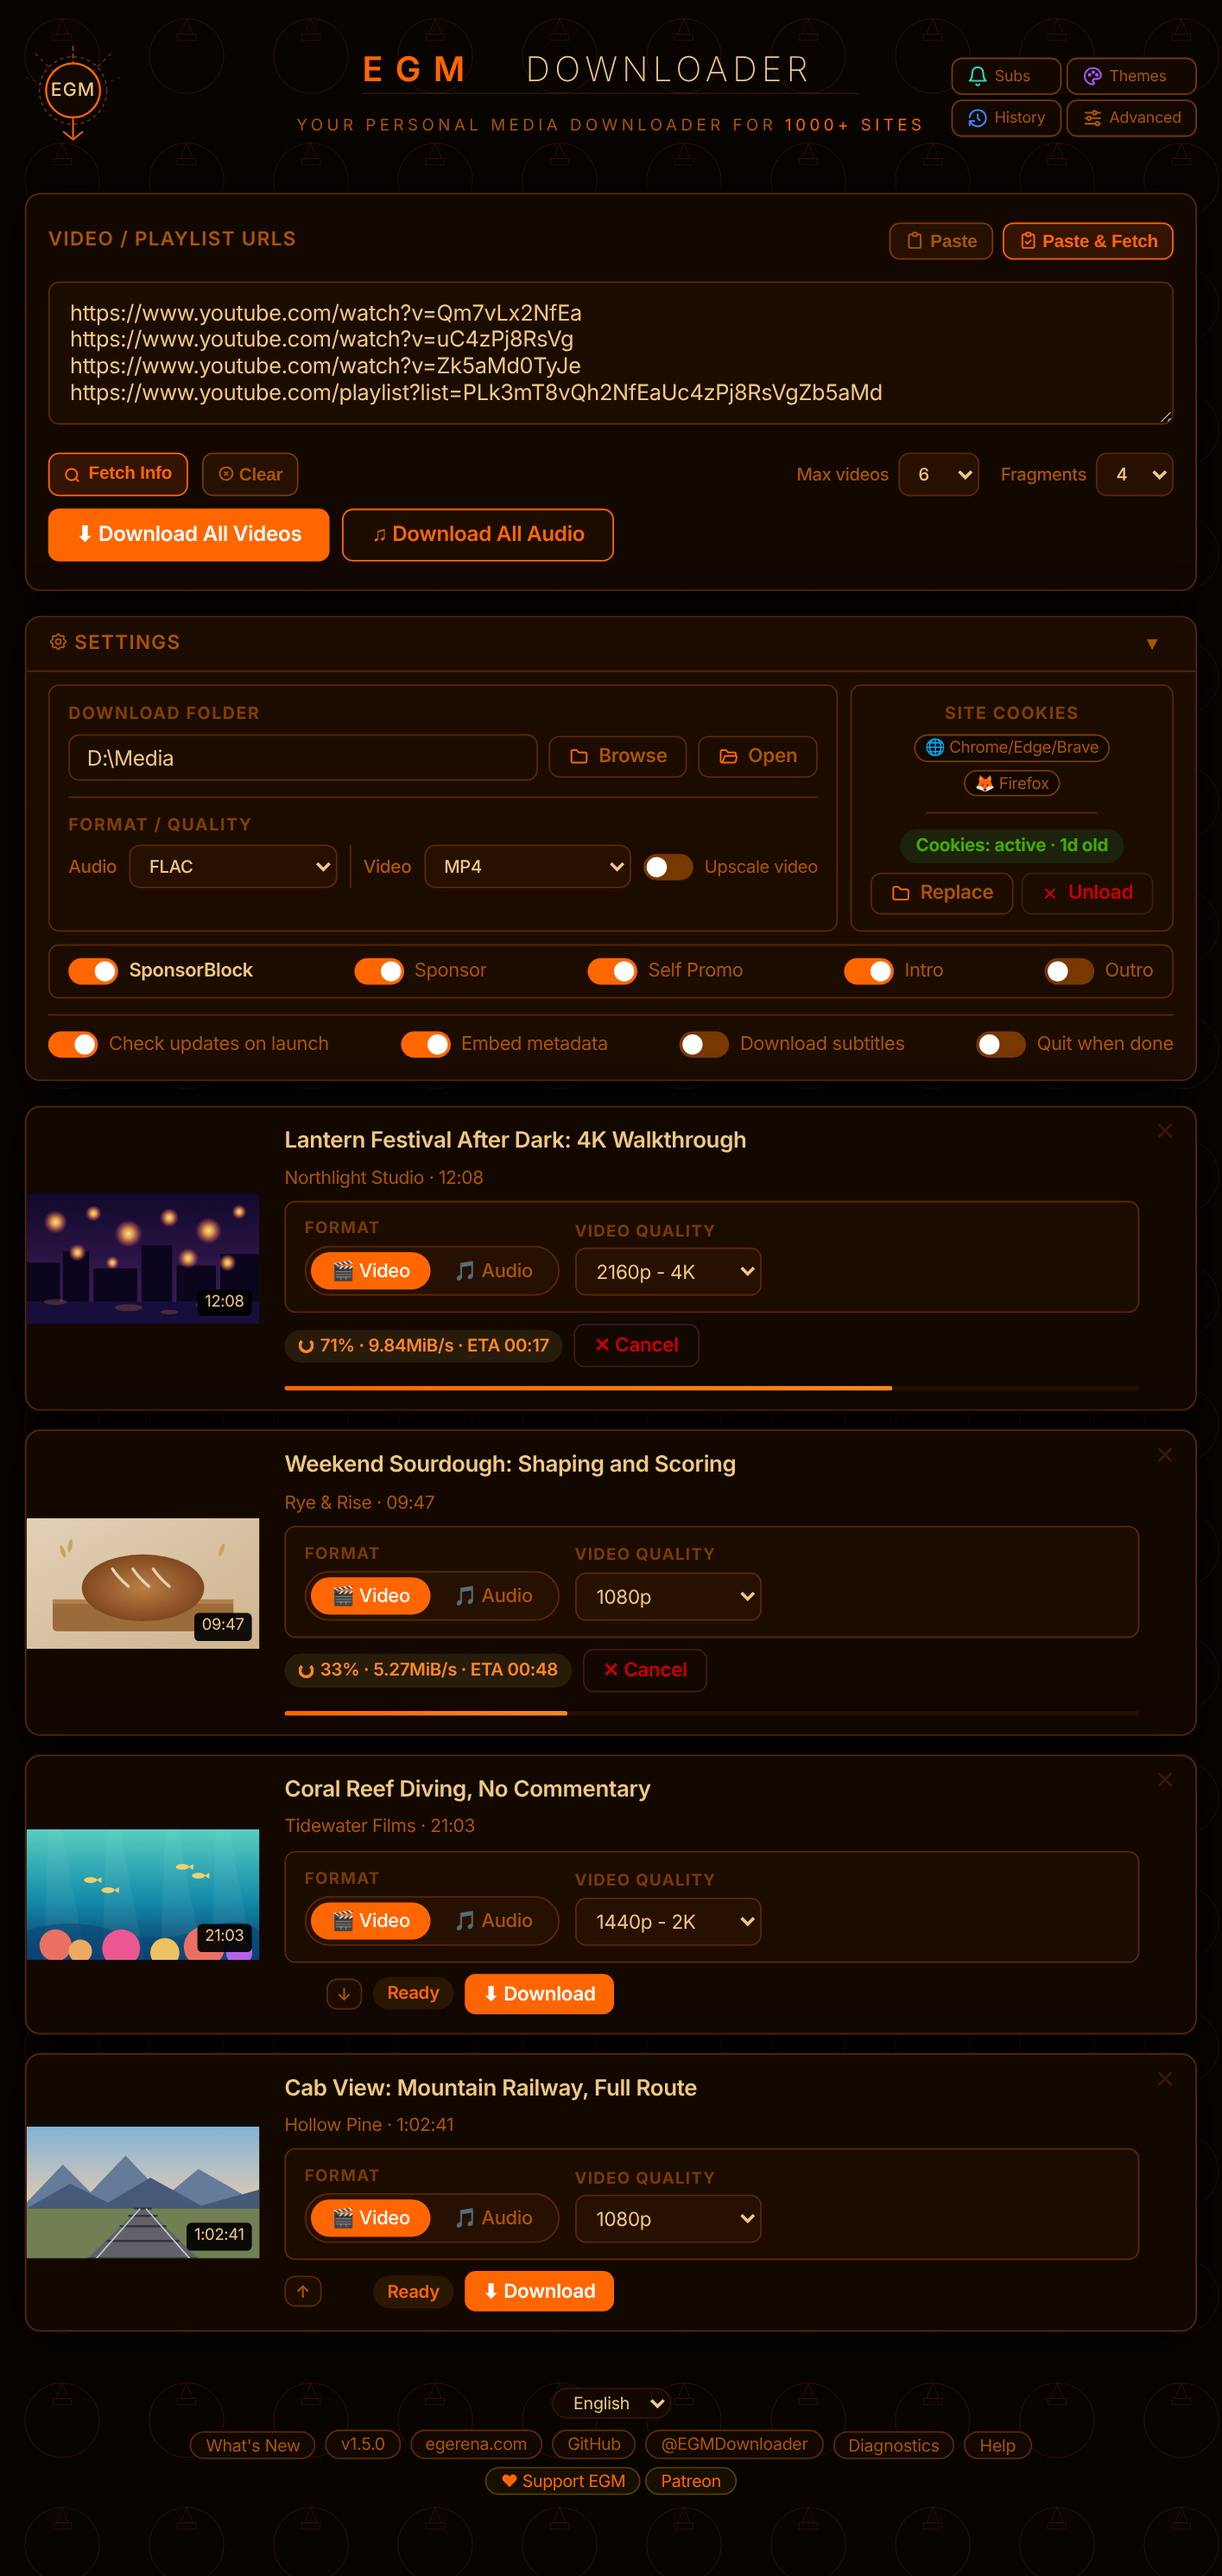
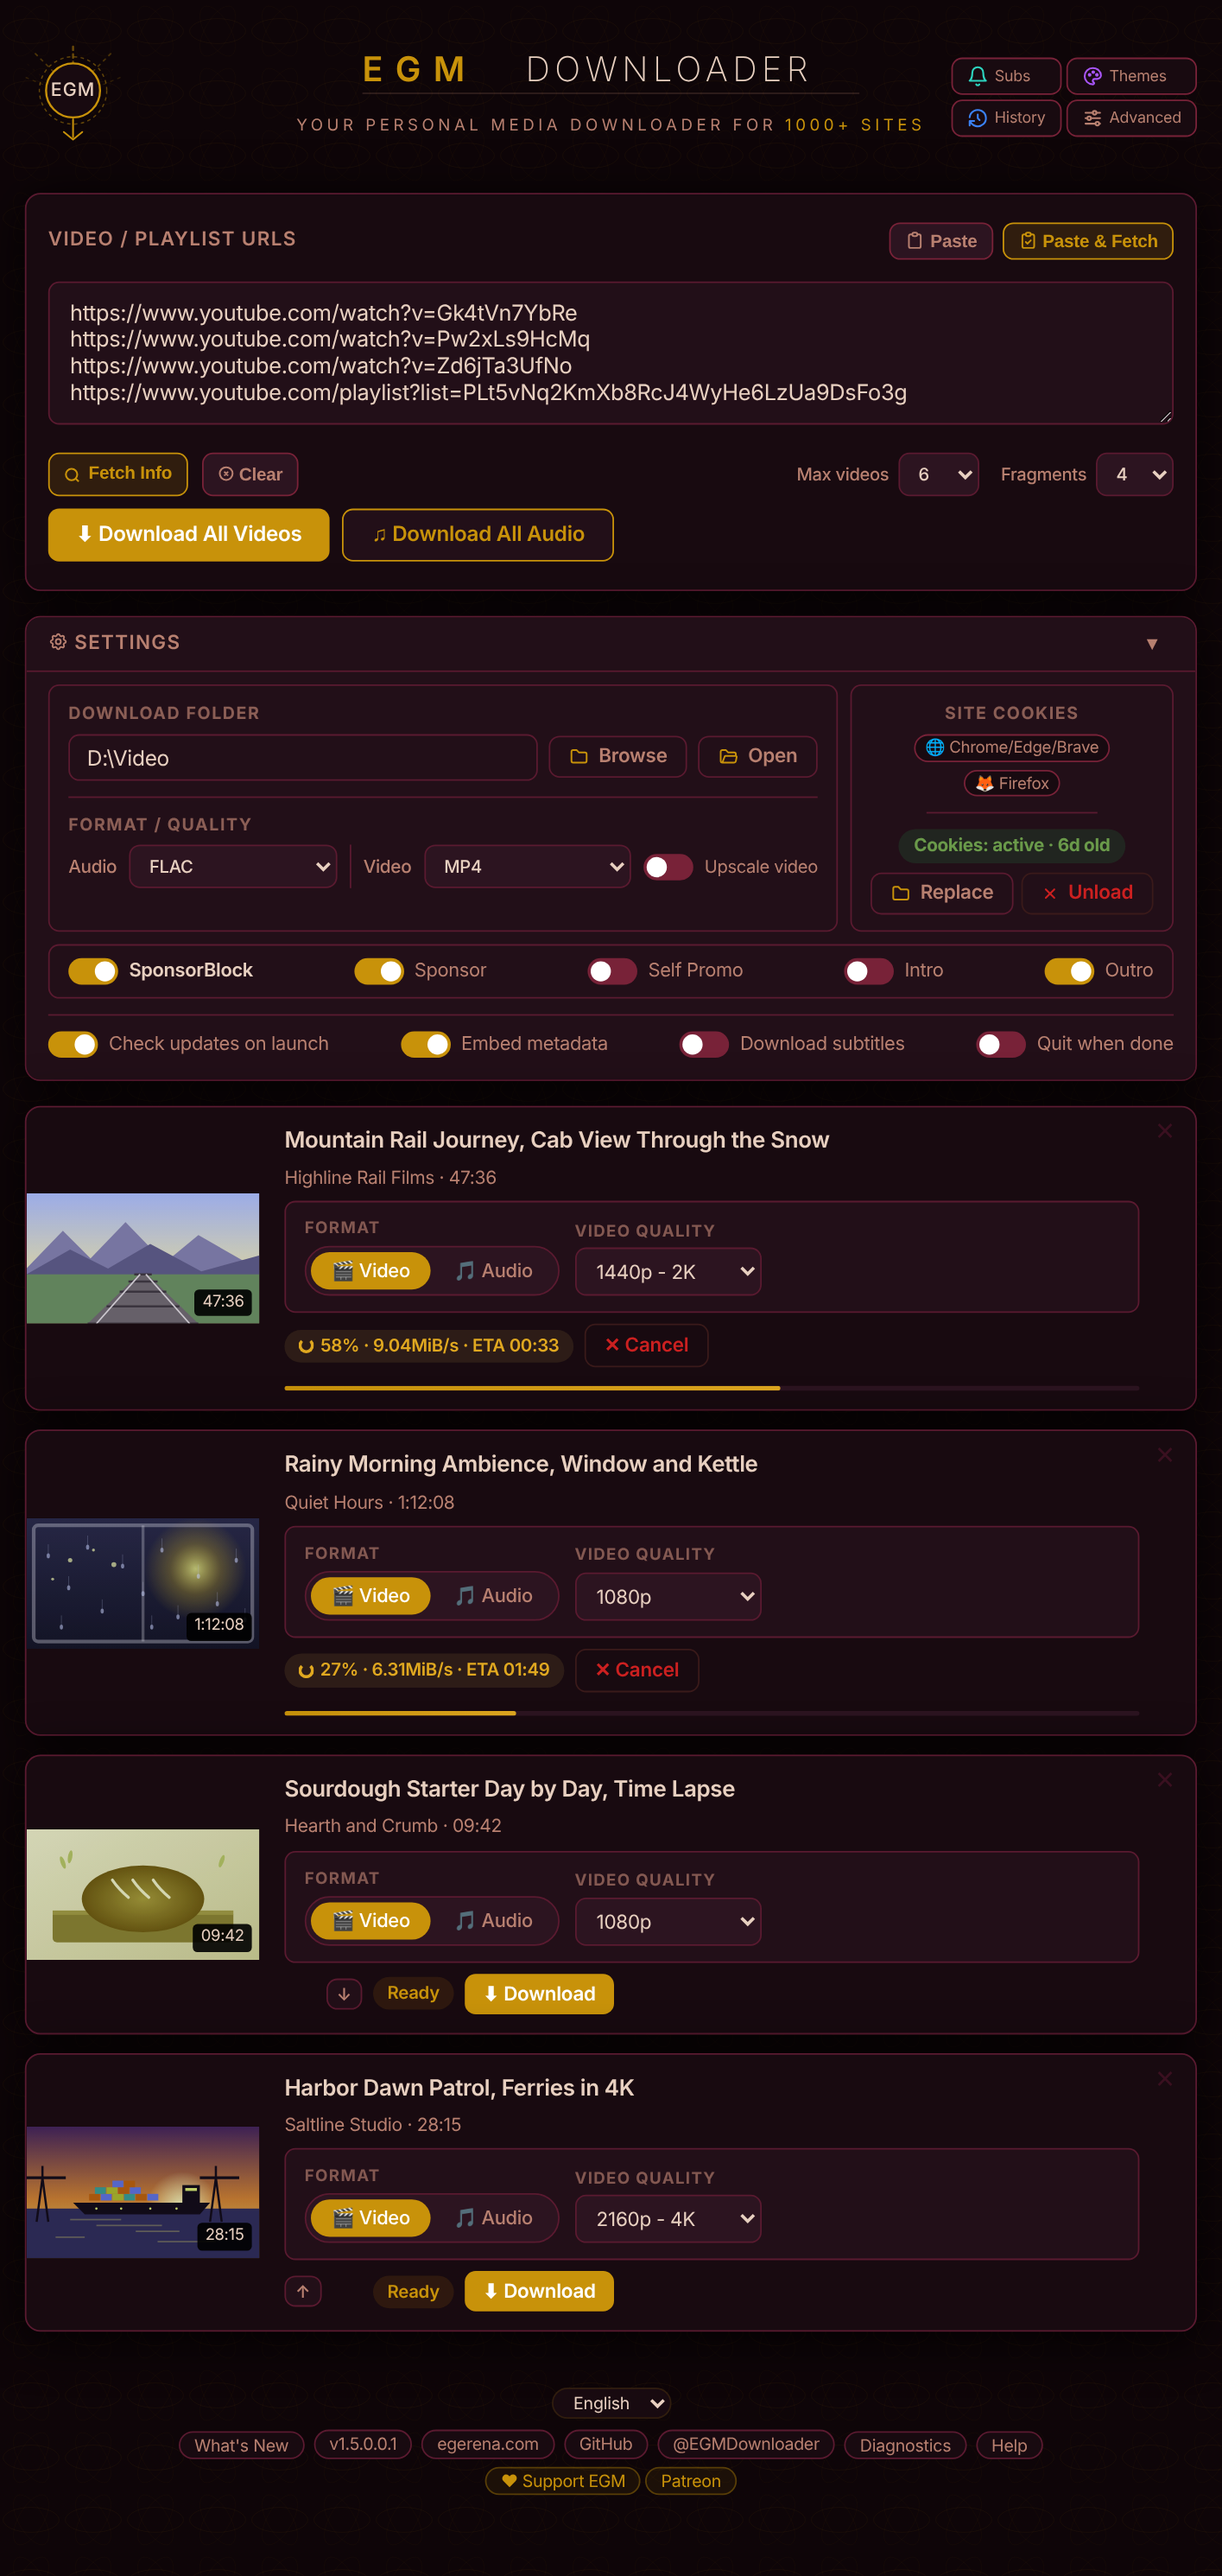
release: v1.5.0.0.1 Build 170 — THE ONE ABOUT BROTLI, SHA256s, screenshots, CONTRIBUTING

diff --git a/README.md b/README.md
@@ -85,7 +85,7 @@ A side by side look at one well known alternative, using details you can check y
 
 ## 🖼 Screenshots
 
-> 📸 *Screenshots of v1.5.0, RAW FEED. The UI is identical across Windows, macOS, and Linux.*
+> 📸 *Screenshots of v1.5.0.0.1, THE ONE ABOUT BROTLI. The UI is identical across Windows, macOS, and Linux.*
 
 <table>
   <tr>
@@ -94,11 +94,11 @@ A side by side look at one well known alternative, using details you can check y
       <br/><sub><b>Splash Screen</b></sub>
     </td>
     <td align="center" width="33%">
-      <a href="screenshots/02-main-ui.png"><img src="screenshots/02-main-ui.png" width="260" alt="Main UI, Halloween theme"/></a>
+      <a href="screenshots/02-main-ui.png"><img src="screenshots/02-main-ui.png" width="260" alt="Main UI, Jazz Club theme"/></a>
       <br/><sub><b>Main UI</b> (Halloween theme)</sub>
     </td>
     <td align="center" width="33%">
-      <a href="screenshots/03-advanced-panel.png"><img src="screenshots/03-advanced-panel.png" width="260" alt="Advanced Panel, Ubuntu theme"/></a>
+      <a href="screenshots/03-advanced-panel.png"><img src="screenshots/03-advanced-panel.png" width="260" alt="Advanced Panel, Blueprint theme"/></a>
       <br/><sub><b>Advanced Panel</b> (Ubuntu theme)</sub>
     </td>
   </tr>
@@ -107,11 +107,11 @@ A side by side look at one well known alternative, using details you can check y
 <table>
   <tr>
     <td align="center" width="50%">
-      <a href="screenshots/08-live-streams.png"><img src="screenshots/08-live-streams.png" width="271" alt="Live streams recording and a download running, Abyssal theme"/></a>
+      <a href="screenshots/08-live-streams.png"><img src="screenshots/08-live-streams.png" width="271" alt="Live streams recording and a download running, Northern Lights theme"/></a>
       <br/><sub><b>Live Streams</b> (Abyssal theme)</sub>
     </td>
     <td align="center" width="50%">
-      <a href="screenshots/09-live-reconnecting.png"><img src="screenshots/09-live-reconnecting.png" width="371" alt="A live stream reconnecting, Cobalt Rush theme"/></a>
+      <a href="screenshots/09-live-reconnecting.png"><img src="screenshots/09-live-reconnecting.png" width="371" alt="A live stream reconnecting, Holographic theme"/></a>
       <br/><sub><b>Live Stream Reconnecting</b> (Cobalt Rush theme)</sub>
     </td>
   </tr>
@@ -120,11 +120,11 @@ A side by side look at one well known alternative, using details you can check y
 <table>
   <tr>
     <td align="center" width="50%">
-      <a href="screenshots/10-quit-when-done.png"><img src="screenshots/10-quit-when-done.png" width="308" alt="Quit when done countdown, Mint theme"/></a>
+      <a href="screenshots/10-quit-when-done.png"><img src="screenshots/10-quit-when-done.png" width="308" alt="Quit when done countdown, Polaroid theme"/></a>
       <br/><sub><b>Quit When Done</b> (Mint theme)</sub>
     </td>
     <td align="center" width="50%">
-      <a href="screenshots/06-advanced-plugins.png"><img src="screenshots/06-advanced-plugins.png" width="308" alt="Advanced Panel with the plugins list, Arch Linux theme"/></a>
+      <a href="screenshots/06-advanced-plugins.png"><img src="screenshots/06-advanced-plugins.png" width="308" alt="Advanced Panel with the plugins list, Lilac Mist theme"/></a>
       <br/><sub><b>Advanced Panel, Plugins</b> (Arch Linux theme)</sub>
     </td>
   </tr>
@@ -133,11 +133,11 @@ A side by side look at one well known alternative, using details you can check y
 <table>
   <tr>
     <td align="center" width="50%">
-      <a href="screenshots/04-all-themes.png"><img src="screenshots/04-all-themes.png" width="459" alt="All Themes, Dialup theme"/></a>
+      <a href="screenshots/04-all-themes.png"><img src="screenshots/04-all-themes.png" width="459" alt="All Themes, Monsoon theme"/></a>
       <br/><sub><b>All Themes</b> (Dialup theme)</sub>
     </td>
     <td align="center" width="50%">
-      <a href="screenshots/11-theme-creator.png"><img src="screenshots/11-theme-creator.png" width="320" alt="Theme Creator with a custom theme, Toxic Orchid"/></a>
+      <a href="screenshots/11-theme-creator.png"><img src="screenshots/11-theme-creator.png" width="320" alt="Theme Creator with a custom theme, Copper Tide"/></a>
       <br/><sub><b>Theme Creator</b> (custom Toxic Orchid theme)</sub>
     </td>
   </tr>
@@ -146,11 +146,11 @@ A side by side look at one well known alternative, using details you can check y
 <table>
   <tr>
     <td align="center" width="50%">
-      <a href="screenshots/05-subscriptions.png"><img src="screenshots/05-subscriptions.png" width="444" alt="Subscriptions, Matcha theme"/></a>
+      <a href="screenshots/05-subscriptions.png"><img src="screenshots/05-subscriptions.png" width="444" alt="Subscriptions, Wanderlust theme"/></a>
       <br/><sub><b>Subscriptions</b> (Matcha theme)</sub>
     </td>
     <td align="center" width="50%">
-      <a href="screenshots/07-download-history.png"><img src="screenshots/07-download-history.png" width="334" alt="Download History, Velvet Rose theme"/></a>
+      <a href="screenshots/07-download-history.png"><img src="screenshots/07-download-history.png" width="334" alt="Download History, Permafrost theme"/></a>
       <br/><sub><b>Download History</b> (Velvet Rose theme)</sub>
     </td>
   </tr>
@@ -161,8 +161,8 @@ A side by side look at one well known alternative, using details you can check y
 ### Windows
 🔗 **Platform page:** [windows.egerena.com](https://windows.egerena.com)
 **Latest:** v1.5.0.0.1  
-**Download:** [EGMd.zip](https://egerena.com/apps/EGMd.zip) (661 KB · ~800 MB after install)  
[1 lines of base64/hex data omitted]
+**Download:** [EGMd.zip](https://egerena.com/apps/EGMd.zip) (662 KB · ~800 MB after install)  
[1 lines of base64/hex data omitted]
 **Install:** Extract `EGMd.zip`, run `egm-setup.exe` and follow the installer. Then paste a video URL, fetch the info, and click Download.  
 **Requirements:** Windows 10/11 (64-bit) · **Python 3.10+** — install from [python.org](https://www.python.org/downloads/) and tick "Add Python to PATH"  
 **Code Signed:** Installer is signed with an IV code signing certificate. SmartScreen may show a warning on first run until the certificate builds reputation.
@@ -170,8 +170,8 @@ A side by side look at one well known alternative, using details you can check y
 
 ### Windows Portable
 **Latest:** v1.5.0.0.1  
-**Download:** [EGMd-portable.zip](https://egerena.com/apps/EGMd-portable.zip) (665 KB · ~1 GB after first run)  
[1 lines of base64/hex data omitted]
+**Download:** [EGMd-portable.zip](https://egerena.com/apps/EGMd-portable.zip) (667 KB · ~1 GB after first run)  
[1 lines of base64/hex data omitted]
 **Install:** Extract `EGMd-portable.zip` and run `EGM Downloader.exe`. Settings and data stay in the same folder, so you can take it anywhere.  
 **Requirements:** Windows 10/11 (64-bit) · **Python 3.10+** — install from [python.org](https://www.python.org/downloads/) and tick “Add Python to PATH”  
 **No installer, no registry** — runs from any folder or USB drive (system Python 3.10+ is used only to bootstrap; the app then downloads a private embedded Python and runs on that. Node, Electron, ffmpeg & Deno are fetched on first run, and a newer Electron after an app update that needs one)  
@@ -182,7 +182,7 @@ A side by side look at one well known alternative, using details you can check y
 🔗 **Platform page:** [mac.egerena.com](https://mac.egerena.com)
 **Latest:** v1.5.0.0.1  
 **Download:** [EGMdM.zip](https://egerena.com/apps/EGMdM.zip) (143 MB · ~300 MB after install)  
[2 lines of base64/hex data omitted]
 **Install:** Extract `EGMdM.zip`, open the `.dmg`, drag "EGM Downloader" to Applications, and launch it.  
 **Requirements:** macOS 13.0 (Ventura) or later · Apple Silicon (M1–M5) only  
 **Signed & Notarized:** This build is Apple notarized — runs without Gatekeeper warnings
@@ -192,7 +192,7 @@ A side by side look at one well known alternative, using details you can check y
 🔗 **Platform page:** [linux.egerena.com](https://linux.egerena.com)
 **Latest:** v1.5.0.0.1  
 **Download:** [EGMdL.zip](https://egerena.com/apps/EGMdL.zip) (171 MB · ~300 MB after install)  
[2 lines of base64/hex data omitted]
 **Install:** Extract `EGMdL.zip`, make it executable with `chmod +x "EGM Downloader.AppImage"`, then double-click to launch (or run it from a terminal).  
 **Format:** AppImage (Universal)  
 **Supported Distros:** Ubuntu 20.04+, Mint 20+, Pop!_OS, Fedora 39+, Arch, and more

diff --git a/CONTRIBUTING.md b/CONTRIBUTING.md
@@ -62,7 +62,7 @@ Steps:
 Expected: All videos download
 Actual: Only first 50 videos download
 
-Environment: Windows 11, EGM Downloader v1.5.0
+Environment: Windows 11, EGM Downloader v1.5.0.0.1
 ```
 
 ### Suggesting Features
